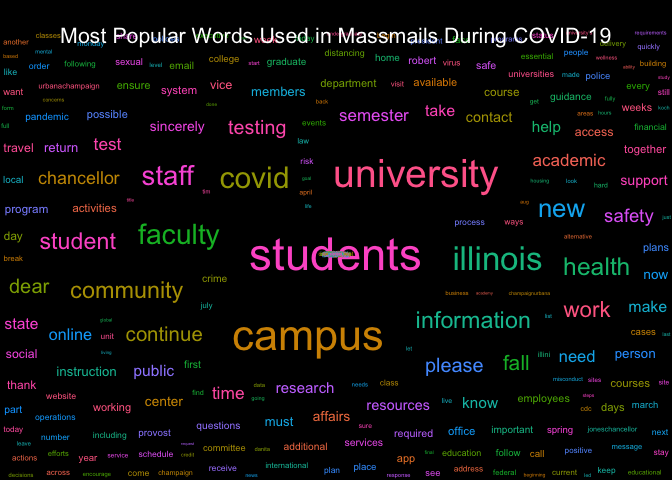
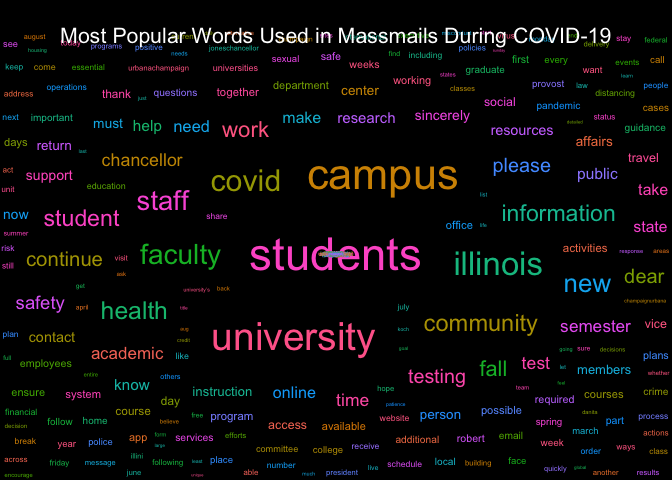
Re-build README.Rmd and Graphs

Changed region(s): [[0.0, 0.0625, 1.0, 1.0], [0.4688, 0.5, 0.5312, 0.5312]]

diff --git a/README.md b/README.md
@@ -17,7 +17,7 @@ The archive may be viewed here:
 
 <https://massmail.illinois.edu/massmailArchive>
 
-Data has **1229** observations and **7** variables:
+Data has **1230** observations and **7** variables:
 
   - `datetime`: Date and time when the email was sent in the form of
     `YYYY-MM-DD HMS` with either CDT or CST.
@@ -205,16 +205,16 @@ head(most_popular_words, 10) %>%
 
 | word        | freq |
 | :---------- | ---: |
-| students    |  660 |
-| campus      |  599 |
-| university  |  582 |
+| students    |  667 |
+| campus      |  605 |
+| university  |  584 |
 | illinois    |  377 |
 | faculty     |  323 |
-| covid       |  312 |
-| community   |  297 |
+| covid       |  318 |
+| community   |  304 |
 | information |  284 |
-| staff       |  258 |
-| health      |  249 |
+| staff       |  259 |
+| health      |  253 |
 
 #### Wordcloud
 
